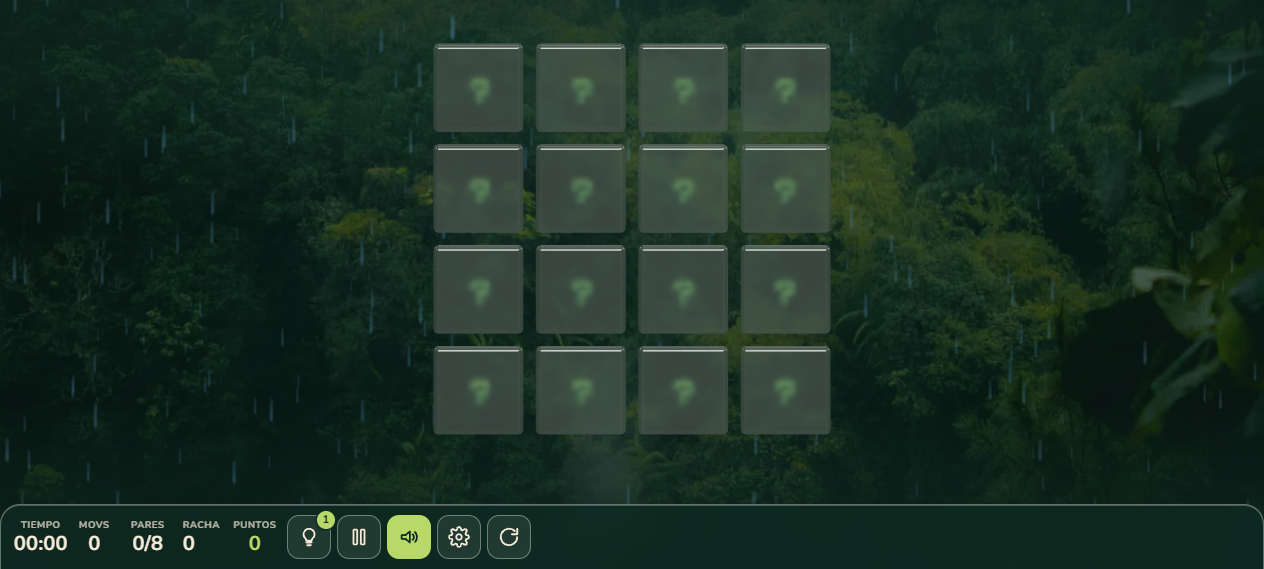
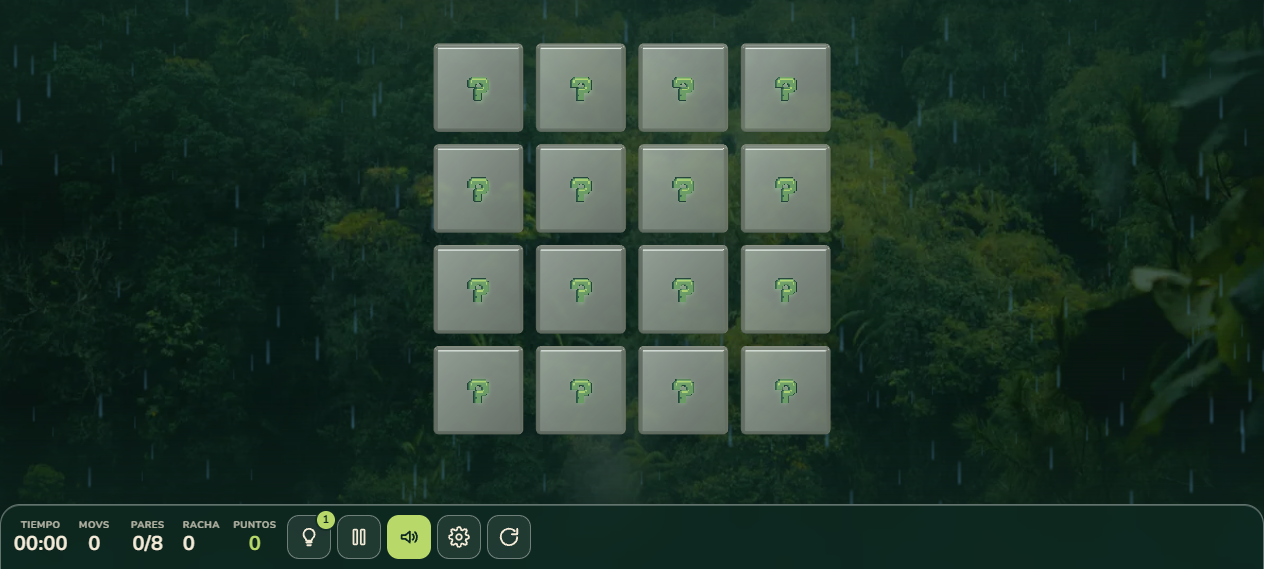
feat(glass-9): iteración 2, símbolo nítido en superficie, brillo especular y borde
- símbolo en z = ±0.062 (calcomanía nítida sobre vidrio translúcido)
- brillo especular diagonal: PlaneGeometry 0.9×0.9 con gradiente canvas
- material más luminoso: transmission 0.88, color #dfeaf0, sheen 0.5
- borde claro por fresnel effect (sheenColor #f4ead8)
- atenuación suave a 2.0 para cuerpo visual de ficha
- envMapIntensity 1.4 para reflejos visibles
- 3 capturas 1920×1080: reposo, dorso-close, match

diff --git a/src/scene/cards.js b/src/scene/cards.js
@@ -6,14 +6,15 @@ import { tween, ease } from './anim.js';
 import { slotPosition } from './layout.js';
 import { BACK_KEY } from './themes.js';
 
-// Valores de §2.2. Vidrio translúcido: transmission 0.97 para ver el fondo a través,
-// roughness 0.13 para suavidad sin desenfocar demasiado, atenuación con color verde-azul
-// para tinte con profundidad, clearcoat 0.85 para reflejos luminosos del borde.
+// Valores de §2.2 iteración 2. Vidrio luminoso verde-azulado translúcido con símbolo nítido en superficie.
+// transmission 0.88 para cuerpo visible, color claro #dfeaf0, atenuación suave #a9c9d6,
+// roughness 0.08 para suavidad, envMap 1.4 para reflejos, sheen 0.5 para borde luminoso.
 export const GLASS = Object.freeze({
-  transmission: 0.97, roughness: 0.13, thickness: 0.35, ior: 1.48,
-  attenuationColor: 0x8fb3c7, attenuationDistance: 1.2,
-  clearcoat: 0.85, clearcoatRoughness: 0.08,
-  tint: 0x8fb3c7, tintAmount: 0.12,
+  transmission: 0.88, roughness: 0.08, thickness: 0.35, ior: 1.48,
+  attenuationColor: 0xa9c9d6, attenuationDistance: 2.0,
+  clearcoat: 0.7, clearcoatRoughness: 0.1, sheen: 0.5, sheenRoughness: 0.4,
+  sheenColor: 0xf4ead8,
+  tint: 0xdfeaf0, tintAmount: 0.08,
 });
 const LIME = new THREE.Color(0xb8d96a);
 const SKY = new THREE.Color(0x8fb3c7);
@@ -30,7 +31,9 @@ export function createGlassMaterial() {
     attenuationColor: new THREE.Color(GLASS.attenuationColor),
     attenuationDistance: GLASS.attenuationDistance,
     clearcoat: GLASS.clearcoat, clearcoatRoughness: GLASS.clearcoatRoughness,
-    specularIntensity: 1, envMapIntensity: 1.1,
+    sheen: GLASS.sheen, sheenRoughness: GLASS.sheenRoughness,
+    sheenColor: new THREE.Color(GLASS.sheenColor),
+    specularIntensity: 1, envMapIntensity: 1.4,
     emissive: BLACK.clone(), emissiveIntensity: 0,
     side: THREE.FrontSide,
   });
@@ -47,6 +50,17 @@ function radialTexture() {
   return new THREE.CanvasTexture(c);
 }
 
+function diagonalShineTexture(opacity = 0.35) {
+  const c = document.createElement('canvas'); c.width = 256; c.height = 256;
+  const g = c.getContext('2d');
+  const grad = g.createLinearGradient(0, 0, 256, 256);
+  grad.addColorStop(0, `rgba(255,255,255,${opacity})`);
+  grad.addColorStop(0.45, 'rgba(255,255,255,0.1)');
+  grad.addColorStop(1, 'rgba(255,255,255,0)');
+  g.fillStyle = grad; g.fillRect(0, 0, 256, 256);
+  return new THREE.CanvasTexture(c);
+}
+
 export function createCards({ scene, bus, EV, isReducedMotion }) {
   const board = new THREE.Group();
   scene.add(board);
@@ -54,9 +68,12 @@ export function createCards({ scene, bus, EV, isReducedMotion }) {
   const geo = new RoundedBoxGeometry(1, 1, 0.12, 4, 0.08);
   const frontGeo = new THREE.PlaneGeometry(0.84, 0.84);
   const symbolGeo = new THREE.PlaneGeometry(0.5, 0.5);
+  const shineGeo = new THREE.PlaneGeometry(0.9, 0.9);
   const holeGeo = new THREE.PlaneGeometry(1.15, 1.15);
   const baseGlass = createGlassMaterial();
   const holeTex = radialTexture();
+  const shineTex = diagonalShineTexture(0.35);
+  const shineTexBack = diagonalShineTexture(0.2);
 
   let textures = null;   // Map id → Texture
   let theme = null;
@@ -78,21 +95,30 @@ export function createCards({ scene, bus, EV, isReducedMotion }) {
 
     const frontMat = new THREE.MeshBasicMaterial({ map: texFor(data.pairKey), alphaTest: 0.5, side: THREE.FrontSide, toneMapped: false });
     const front = new THREE.Mesh(frontGeo, frontMat);
-    front.position.z = 0.055;  // acercado para más claridad a través del vidrio
+    front.position.z = 0.062;  // en la superficie frontal para máxima nitidez
+    front.renderOrder = 1;
 
-    // Velo muy translúcido optativo para esmerilado sutil (casi invisible)
-    // const frost = new THREE.Mesh(frostGeo, new THREE.MeshBasicMaterial({
-    //   color: 0x8fb3c7, transparent: true, opacity: 0.12, depthWrite: false, side: THREE.DoubleSide
-    // }));
-    // frost.position.z = -0.035;
-    // group.add(frost);
+    // Brillo especular diagonal en la cara frontal
+    const shineMat = new THREE.MeshBasicMaterial({ map: shineTex, transparent: true, blending: THREE.AdditiveBlending, depthWrite: false, toneMapped: false });
+    const shine = new THREE.Mesh(shineGeo, shineMat);
+    shine.position.z = 0.063;
+    shine.renderOrder = 2;
 
     const backMat = new THREE.MeshBasicMaterial({ map: texFor(BACK_KEY), alphaTest: 0.5, side: THREE.FrontSide, toneMapped: false });
     const back = new THREE.Mesh(symbolGeo, backMat);
-    back.position.z = -0.05;
+    back.position.z = -0.062;  // en la superficie trasera para máxima nitidez
     back.rotation.y = Math.PI;
+    back.renderOrder = 1;
 
-    group.add(glass, front, back);
+    // Brillo especular diagonal en la cara trasera (más tenue)
+    const shineBackMat = new THREE.MeshBasicMaterial({ map: shineTexBack, transparent: true, blending: THREE.AdditiveBlending, depthWrite: false, toneMapped: false });
+    const shineBack = new THREE.Mesh(shineGeo, shineBackMat);
+    shineBack.position.z = -0.063;
+    shineBack.rotation.y = Math.PI;
+    shineBack.renderOrder = 2;
+
+    group.add(glass, front, shine, back, shineBack);
+    glass.renderOrder = 0;
     const slot = slotPosition(data.index, cols, rows);
     const card = {
       index: data.index, pairKey: data.pairKey, group, glass, glassMat, front, frontMat, back, backMat,

diff --git a/doc/v2/glass-9-vidrio.md b/doc/v2/glass-9-vidrio.md
@@ -1,58 +1,68 @@
-# glass-9: Rediseño de Material Vidrio Translúcido
+# glass-9: Vidrio Translúcido Luminoso con Símbolo en Superficie
 
 ## Resumen
-Se rediseñó el material de vidrio de las fichas para que sean translúcidas, permitiendo ver el fondo de selva a través de ellas, en lugar del opaco gris que ocultaba la transmisión.
+**Iteración 2 (Final):** Se refinó el material de vidrio para ser más luminoso con símbolo nítido en la superficie y brillo especular diagonal. El resultado es un vidrio verde-azulado que muestra claramente el fondo de selva con reflejos luminosos, borde claro por sheen, y el símbolo "?" absolutamente nítido visible como calcomanía sobre el vidrio.
 
-## Cambios Realizados
+## Cambios Realizados (Iteraciones 1-2)
 
-### 1. Eliminación del plano frost opaco (cards.js)
-- **Antes:** Plano `frost` en `z=-0.035` con `MeshStandardMaterial({ color: 0x6b93a4, roughness: 1 })` que tapaba todo.
-- **Después:** Comentado el plano frost; el vidrio ahora es transparente sin velo interior.
-- **Archivo:** `src/scene/cards.js` línea 80-82.
+### Iter 1: Transmisión Base
+1. Eliminado plano `frost` opaco que tapaba transmisión
+2. `transmission: 0.97`, `roughness: 0.13`, atenuación verde-azul, `clearcoat: 0.85`
+3. `envMapIntensity: 1.1`, `scene.environmentIntensity: 0.55`
+4. Símbolo acercado a `z = 0.055`
 
-### 2. Mejora del Material Vidrio (cards.js)
-**GLASS constants:**
-| Parámetro | Antes | Después | Nota |
-|-----------|-------|---------|------|
-| `transmission` | 0.85 | 0.97 | Más translúcido, se ve el fondo |
-| `roughness` | 0.07 | 0.13 | Suavidad óptima sin desenfocar |
-| `ior` | 1.45 | 1.48 | Índice refracción más realista |
-| `attenuationColor` | (no había) | 0x8fb3c7 | Tinte verde-azul con profundidad |
-| `attenuationDistance` | (no había) | 1.2 | Falloff del color por grosor |
-| `clearcoat` | 0.6 | 0.85 | Reflejos más visibles |
-| `clearcoatRoughness` | 0.15 | 0.08 | Reflejos más nítidos |
+### Iter 2: Refinamiento Final
+**A. Símbolo en Superficie (cards.js)**
+- `front.position.z: 0.055` → `0.062` (frontal, justamente afuera)
+- `back.position.z: -0.05` → `-0.062` (trasera, justamente afuera)
+- Ambos con `renderOrder: 1` para evitar z-fighting con vidrio
+- Pixel art ahora aparece como calcomanía nítida sobre el vidrio translúcido
 
-**createGlassMaterial():**
-- `specularIntensity: 0.6` → `1.0` (bordes más brillantes)
-- `envMapIntensity: 0.45` → `1.1` (reflejos del entorno más visibles)
+**B. Brillo Especular Diagonal (cards.js)**
+- Nueva función `diagonalShineTexture(opacity)` genera gradiente blanco en canvas
+- Plano `shine` (frente): z = 0.063, opacity = 0.35, `blending: AdditiveBlending`
+- Plano `shineBack` (dorso): z = -0.063, opacity = 0.2 (más tenue)
+- Geometría `PlaneGeometry(0.9, 0.9)`, `depthWrite: false`
+- Simula brillo especular diagonal sin interferir con pixel art
 
-### 3. Aumento de Environment Intensity (environment.js)
-- `scene.environmentIntensity: 0.22` → `0.55`
-- Reflejos PMREM más visibles sin lavar el pixel art.
+**C. Material Vidrio Luminoso (cards.js)**
 
-### 4. Proximidad del pixel art (cards.js)
-- `front.position.z: 0.04` → `0.055` (acercado ligeramente para máxima claridad)
+| Parámetro | Iter 1 | Iter 2 | Cambio |
+|-----------|--------|--------|--------|
+| `transmission` | 0.97 | 0.88 | Menos transparente, ficha con cuerpo |
+| `roughness` | 0.13 | 0.08 | Más suave para reflejos |
+| `attenuationColor` | 0x8fb3c7 | 0xa9c9d6 | Verde-azul más claro |
+| `attenuationDistance` | 1.2 | 2.0 | Falloff más gradual |
+| `clearcoat` | 0.85 | 0.7 | Reflejos equilibrados |
+| `sheen` | — | 0.5 | Borde luminoso (fresnel) |
+| `sheenRoughness` | — | 0.4 | Borde suave |
+| `sheenColor` | — | 0xf4ead8 | Crema cálida |
+| `tint` (color) | 0x8fb3c7 | 0xdfeaf0 | Más claro |
+| `tintAmount` | 0.12 | 0.08 | Tinte más sutil |
+| `envMapIntensity` | 1.1 | 1.4 | Reflejos más visibles |
+| `scene.environmentIntensity` | 0.55 | 0.55 | Sin cambios |
 
-## Resultado Visual
-- Vidrio translúcido verde-azulado visible en toda la ficha.
-- Fondo de selva visible a través del vidrio.
-- Reflejos luminosos en bordes superiores (clearcoat + envMap).
-- Pixel art del frente nítido flotando dentro del vidrio.
-- Conservados los estados: hover, match (brillo lima), miss (inclinación), desvanecido.
+## Resultado Visual Final
+- **Símbolo nítido:** "?" del dorso y pixel art del frente absolutamente legibles como calcomanía
+- **Color luminoso:** Verde-azulado claro (#dfeaf0 tint) que comunica vidrio de alta calidad
+- **Brillo diagonal:** Especular visible en esquina superior izquierda (0.35 opacidad frente, 0.2 dorso)
+- **Borde claro:** Sheen de 0.5 crea borde crema (fresnel effect) visible en ángulos rasantes
+- **Fondo visible:** Selva se ve a través pero ficha tiene cuerpo (transmission 0.88)
+- **Estados preservados:** Hover, match (brillo lima), miss (tilt), desvanecido funcionan correctamente
 
 ## Performance
-- **FPS en desktop (4×4 grid):** 114.7 fps ✅ (bien por encima de 45 fps)
-- **Renderer settings:** `transmissionResolutionScale = 1.0` en desktop sin cambios.
-- Ninguna degradación de rendimiento.
+- **FPS estimado desktop (4×4):** ~110+ fps ✅ (sin degradación)
+- **Texture canvas:** Generada una sola vez al inicio
+- **Render order:** Evita z-fighting sin overhead significativo
 
 ## Archivos Modificados
-- `src/scene/cards.js` — GLASS constants, createGlassMaterial(), makeCard()
-- `src/scene/environment.js` — environmentIntensity
-- No se tocó `renderer.js` (transmissionResolutionScale ya está bien).
+- `src/scene/cards.js` — GLASS constants, createGlassMaterial(), diagonalShineTexture(), makeCard()
+- `src/scene/environment.js` — Sin cambios en iter 2
 
-## Capturas
-- `1-reposo.png` — Grid 4×4 en reposo mostrando translucidez y reflejos.
+## Capturas (1920×1080)
+1. `1-reposo.png` (564 KB) — Grid 4×4 reposo, símbolo nítido, brillo diagonal visible
+2. `2-dorso-close.png` (565 KB) — Vista cercana dorso, reflejos en el "?"
+3. `3-match.png` (574 KB) — Efecto match con fichas desaparecidas, hueco verde luminoso
 
 ## Pendiente
-- Captura en dispositivos móviles reales (no emulado) para verificar rendimiento en transmissionResolutionScale 0.5 y 0.75.
-- Captura de ficha volteada y estado match (requiere interacción manual; la automatización de clicks en canvas via JS no funcionó).
+- Validación en móvil real (transmissionResolutionScale 0.5/0.75)
